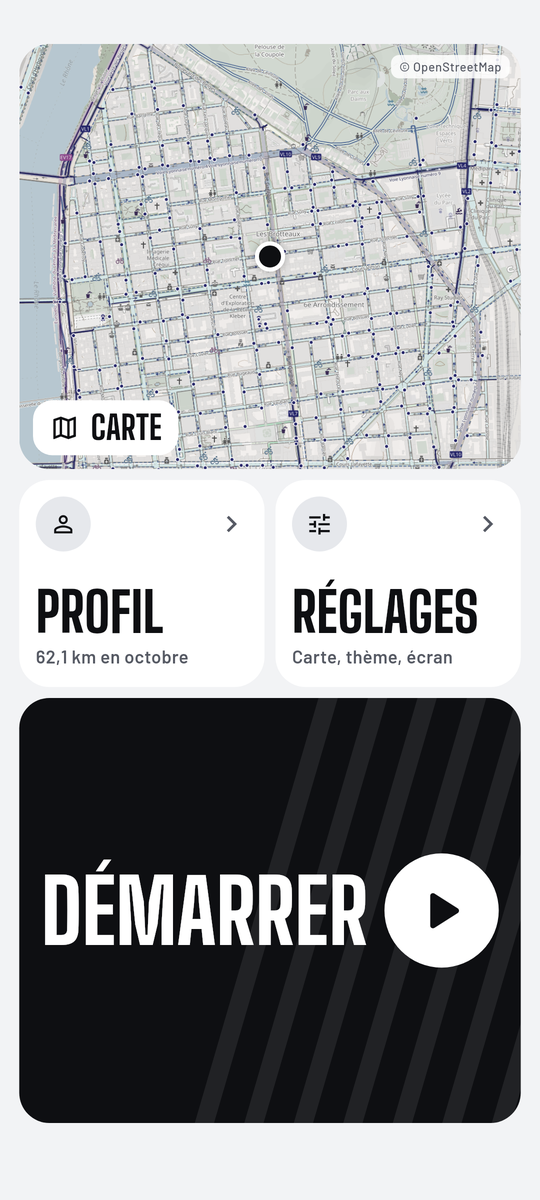
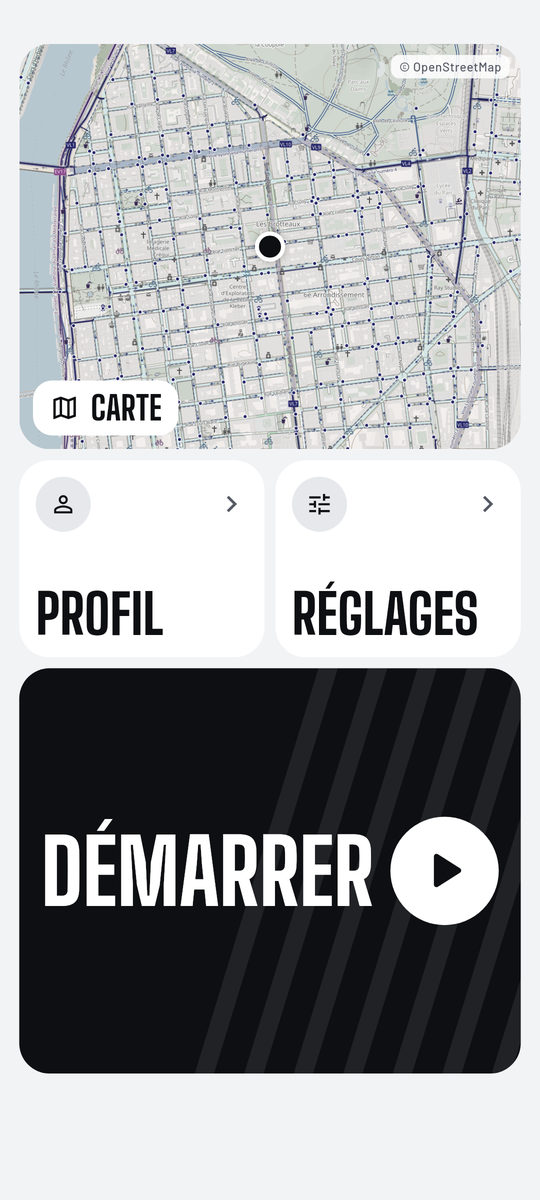
Page publique : version 0.1.32

Changed region(s): [[0.0296, 0.0308, 0.9778, 0.6167], [0.0593, 0.6783, 0.9481, 0.8325], [0.0296, 0.8633, 0.9778, 0.9558]]

diff --git a/README.md b/README.md
@@ -4,7 +4,11 @@
 
 # Compteur Vélo
 
-**Le compteur GPS pour le vélo, lisible d'un coup d'œil, les mains sur le guidon.**
+**L'app vélo ultime : un compteur GPS que tu configures comme tu veux, pour tous les types de cyclistes.**
+
+> 🧪 **Version en cours de développement et de test.** Tu peux l'essayer sans crainte et
+> **envoyer tes retours** (bugs, idées, ce qui manque) dans l'onglet
+> [Issues](https://github.com/HugoinTheGit/gps-velo-apk/issues) : chaque avis compte.
 
 [![Dernière version](https://img.shields.io/github/v/release/HugoinTheGit/gps-velo-apk?label=version&style=flat-square&color=0E0F12)](https://github.com/HugoinTheGit/gps-velo-apk/releases/latest)
 [![Téléchargements](https://img.shields.io/github/downloads/HugoinTheGit/gps-velo-apk/total?label=t%C3%A9l%C3%A9chargements&style=flat-square&color=565A64)](https://github.com/HugoinTheGit/gps-velo-apk/releases)
@@ -14,25 +18,44 @@
   <img src="https://img.shields.io/badge/T%C3%A9l%C3%A9charger-l'APK%20Android-0E0F12?style=for-the-badge&logo=android&logoColor=white" height="52" alt="Télécharger l'APK Android">
 </a>
 
-<sub>Version <!-- version -->0.1.31<!-- /version --> · gratuit · sans compte · sans publicité</sub>
+<sub>Version <!-- version -->0.1.32<!-- /version --> · gratuit · sans compte · sans publicité</sub>
 
 </div>
 
 <!-- screenshots:start -->
-<div align="center"><table><tr><td><img src="images/screen-1-accueil.png" width="200" alt=""></td><td><img src="images/screen-2-widgets.png" width="200" alt=""></td><td><img src="images/screen-3-carte.png" width="200" alt=""></td><td><img src="images/screen-4-recap.png" width="200" alt=""></td></tr></table></div>
+<div align="center"><table><tr><td><img src="images/screen-1-accueil.png" width="200" alt=""></td><td><img src="images/screen-2-widgets.png" width="200" alt=""></td><td><img src="images/screen-3-enregistrement.png" width="200" alt=""></td><td><img src="images/screen-4-compteur.png" width="200" alt=""></td></tr></table></div>
 <!-- screenshots:end -->
+
+## Une app qui s'adapte à toi
+
+Route, VTT, gravel, ville, randonnée, long voyage : chaque cycliste a ses chiffres
+préférés. Compteur Vélo se façonne à ta mesure.
+
+- **Modulaire** : l'accueil et l'écran d'enregistrement sont des grilles de widgets.
+  Tu choisis ce qui s'affiche (vitesse, distance, pente, altitude, carte, courbes,
+  musique, lampe, klaxon...), tu les places, tu les redimensionnes.
+- **Plusieurs pages** : une disposition pour la route, une pour les longues sorties,
+  une pour la ville. Tu passes de l'une à l'autre en glissant.
+- **Personnalisable** : chaque widget peut être automatique, sombre, clair ou en couleur
+  d'accent, et chaque vélo a sa couleur et ses dispositions.
+- **Des dispositions prêtes à l'emploi** : départ rapide, carte grand format, classique...
+  ou enregistre les tiennes.
+- **Un compteur sans enregistrement** : vitesse, distance et durée à la volée, sans
+  garder la sortie.
 
 ## Ce que fait l'app
 
 - **Enregistrement GPS précis** : vitesse, distance, durée, temps en mouvement, moyenne, vitesse max et dénivelé, avec un filtrage du bruit GPS.
 - **Altitude réelle** au-dessus du niveau de la mer, corrigée par le modèle de géoïde EGM96.
-- **Accueil en tuiles personnalisable** : appui long pour déplacer et redimensionner les tuiles, et ajouter des widgets (distance, graphique, records, objectif du mois, dernière sortie, heure).
+- **Accueil en tuiles personnalisable** : appui long pour déplacer et redimensionner les tuiles, et ajouter des widgets (distance, graphique, records, objectif du mois, dernière sortie, heure, compteur).
+- **Widget musique** : pochette et commandes de la musique en cours (autorisation « accès aux notifications »).
 - **Carte vélo CyclOSM** avec recherche de lieu, en thème clair ou sombre.
 - **Historique et statistiques** par semaine, mois, année ou au total, avec les records.
+- **Profil de sortie** : graphiques de vitesse et d'altitude (avec la pente), temps d'arrêt, étiquette pro, loisir ou autre.
 - **Export GPX** de chaque sortie, ou de toutes, dans le dossier Téléchargements.
 - **Mises à jour intégrées** : l'app propose elle-même chaque nouvelle version.
 
-## Nouveautés de la version <!-- version -->0.1.31<!-- /version -->
+## Nouveautés de la version <!-- version -->0.1.32<!-- /version -->
 
 <!-- notes:start -->
 - Nouveau widget « Compteur » pour l'accueil (dans Ajouter un widget) : un second bouton Démarrer qui ouvre un compteur de vitesse, distance et durée, actif dès l'ouverture, sans rien enregistrer. Quand tu quittes la page, les chiffres sont gardés 1 minute (tu peux revenir sans rien perdre), puis tout est remis à zéro. Les widgets du compteur ne se déplacent pas mais leur apparence se règle par un appui long. Pas disponible pendant une sortie enregistrée.
@@ -44,6 +67,12 @@
 - Mes dispositions : les aperçus de pages reprennent la vraie couleur de chaque widget.
 - Sonnette et klaxon : sortie forcée sur le haut-parleur du téléphone, même avec des écouteurs (si le problème persiste sur ton téléphone, dis-le moi).
 <!-- notes:end -->
+
+## Tester et donner ton avis
+
+L'app évolue vite. Si tu trouves un bug, un écran peu clair ou une fonction qui te manque,
+dis-le dans les [Issues](https://github.com/HugoinTheGit/gps-velo-apk/issues) : indique ton
+téléphone, la version et ce que tu faisais. Les mises à jour arrivent directement dans l'app.
 
 ## Installation
 
